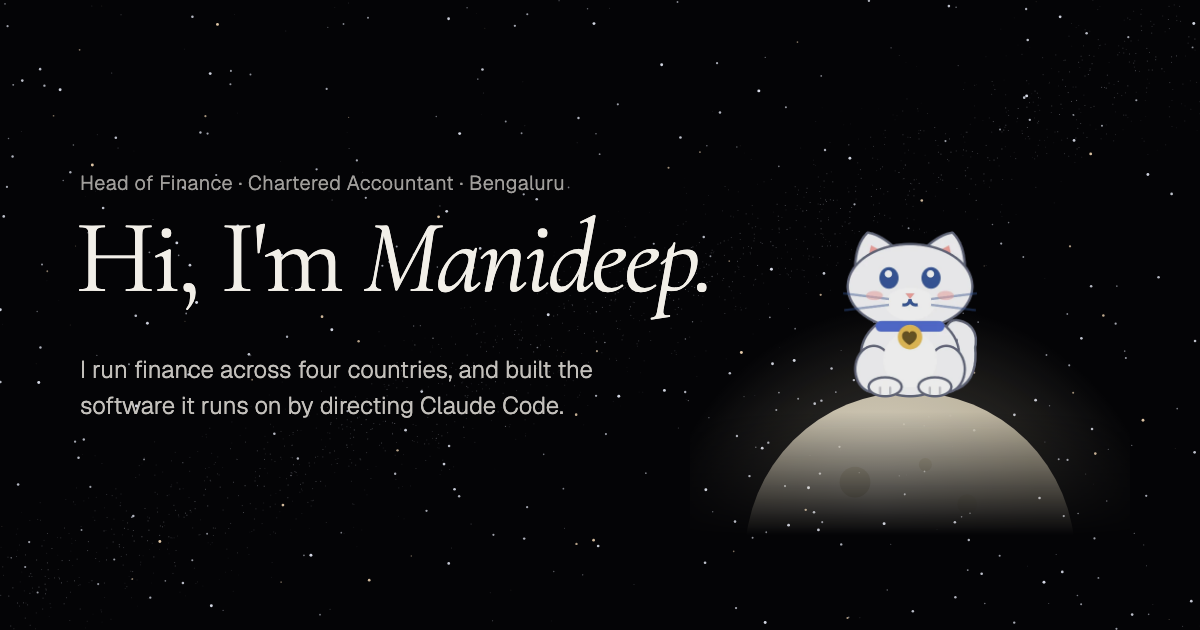
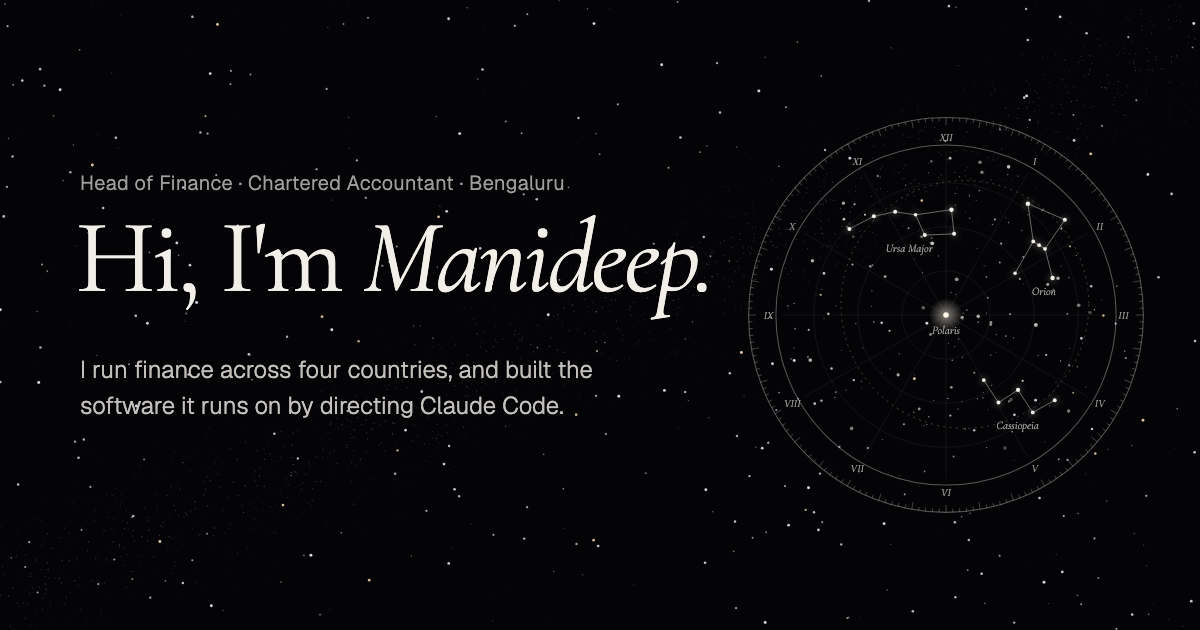
feat(site): a star chart on the first screen instead of the cat
A page from an old celestial atlas, drawn in the site's ink: a fixed rim with
degree ticks and Roman hours, and inside it the sky (grid, dotted ecliptic,
Ursa Major, Cassiopeia, Orion, Polaris at the pole) turning once every five
minutes; still for reduced motion. Cats stay only in Off hours, as the eight
napping coats. Share image updated to match.

diff --git a/index.html b/index.html
@@ -53,12 +53,21 @@
   .intro .lede { margin-top: 28px; font-size: clamp(18px, 1.55vw, 21px); line-height: 1.55; color: rgba(242,239,232,.82); max-width: 40ch; text-wrap: pretty }
   .intro .lede b { font-weight: 400; color: var(--ink) }
   .pills { display: flex; flex-wrap: wrap; gap: 10px; margin-top: 34px }
-  /* Snow on the moon: the moon glows, the cat sits still until you pet him */
-  .perch { position: relative; width: clamp(280px, 30vw, 430px); aspect-ratio: 1; -webkit-mask-image: linear-gradient(#000 72%, transparent); mask-image: linear-gradient(#000 72%, transparent) }
-  .perch .moon { position: absolute; inset: 0; width: 100%; height: 100%; overflow: visible; filter: brightness(.86) }
-  .moonglow { animation: glow 6s ease-in-out infinite }
-  @keyframes glow { 50% { opacity: .7 } }
-  .perch .cat { position: absolute; left: 50%; bottom: 21%; width: 40%; transform: translateX(-50%) }
+  /* a page from an old celestial atlas: the rim stays, the sky inside turns once every five minutes */
+  .atlas { margin: 0; width: clamp(300px, 32vw, 460px); aspect-ratio: 1 }
+  .chart { width: 100%; height: 100%; display: block; overflow: visible }
+  .chart .ring { fill: none; stroke: rgba(242,239,232,.35); stroke-width: 1 }
+  .chart .tick { stroke: rgba(242,239,232,.32); stroke-width: .8 }
+  .chart .hour { fill: rgba(242,239,232,.6); font-family: var(--serif); font-style: italic; font-size: 10.5px }
+  .chart .grid { fill: none; stroke: rgba(242,239,232,.08); stroke-width: .8 }
+  .chart .ecliptic { fill: none; stroke: rgba(255,233,201,.3); stroke-width: .8; stroke-dasharray: 2 4 }
+  .chart .field { fill: var(--ink) }
+  .chart .line { fill: none; stroke: rgba(242,239,232,.45); stroke-width: .9 }
+  .chart .star { fill: var(--ink); filter: drop-shadow(0 0 3px rgba(255,246,230,.7)) }
+  .chart .name { fill: rgba(242,239,232,.62); font-family: var(--serif); font-style: italic; font-size: 11px }
+  .chart .glow { fill: url(#chartglow) } .chart .pole { fill: #fff6e6 }
+  .chart .sky { transform-origin: 200px 200px; animation: turn 300s linear infinite }
+  @keyframes turn { to { transform: rotate(360deg) } }
 
   main { position: relative; z-index: 2 }
 
@@ -111,15 +120,9 @@
   .art .packet { fill: #ffe9c9; filter: drop-shadow(0 0 3px rgba(255,233,201,.9)) }
   #changes { aspect-ratio: 520 / 300 }
 
-  /* the cat on the moon: Cataholic's own Snow. Pet him and he says something, naps, and wakes up in the next coat */
+  /* off hours: Cataholic's eight coats, napping */
   .naps { display: grid; grid-template-columns: repeat(4, minmax(0, 1fr)); gap: 6px 10px; max-width: 480px; margin: 0 auto }
   .naps img { width: 100%; height: auto; aspect-ratio: 368 / 200; object-fit: cover; object-position: 50% 71%; filter: brightness(.88) }
-  .cat { display: block; margin: 0; padding: 0; background: none; border: 0; cursor: pointer; position: relative; color: inherit; font: inherit }
-  .cat img { width: 100%; height: auto; display: block; filter: brightness(.88) }
-  .cat .say { position: absolute; left: 70%; top: 2%; white-space: nowrap; font-family: var(--serif); font-style: italic; font-size: 22px; color: var(--ink); opacity: 0; pointer-events: none }
-  .cat.purr .say { animation: say 1.4s ease-out }
-  @keyframes say { 0% { opacity: 0; transform: translateY(6px) } 20% { opacity: 1 } 100% { opacity: 0; transform: translateY(-26px) } }
-  .cat:focus-visible { outline-offset: 8px; border-radius: 12px }
 
   /* ── the path: ten years as a rising line of stars ── */
   .arc .path { position: relative; height: 480px; margin-top: 32px }
@@ -150,12 +153,11 @@
 
   @media (prefers-reduced-motion: reduce) {
     .art .ln, .art .st, .art .ha, .art .tx, .art .flow, .path svg path, .path li { transition: none }
-    .cat.purr .say { animation: none }
-    .moonglow { animation: none }
+    .chart .sky { animation: none }
   }
   @media (max-width: 820px) {
     .intro { grid-template-columns: minmax(0, 1fr); gap: 0; padding: 88px 20px 56px }
-    .perch { order: -1; width: 170px; margin: 0 0 6px -12px }
+    .atlas { order: -1; width: 190px; margin: 0 0 18px -6px }
       .intro h1 { margin-top: 12px }
     .intro .lede { margin-top: 20px }
     .sec { padding: 88px 20px }
@@ -196,21 +198,7 @@
         <a class="pill" href="https://cal.com/manideepgns/intro-chat">Book 20 minutes ↗</a>
       </div>
     </div>
-    <div class="perch">
-      <svg class="moon" viewBox="0 0 400 400" aria-hidden="true">
-        <defs>
-          <radialGradient id="moonfill" cx=".4" cy=".35"><stop offset="0" stop-color="#fdf6e4"/><stop offset="1" stop-color="#d9cfb6"/></radialGradient>
-          <radialGradient id="moonhalo"><stop offset=".6" stop-color="#fff3d6" stop-opacity=".16"/><stop offset="1" stop-color="#fff3d6" stop-opacity="0"/></radialGradient>
-        </defs>
-        <circle class="moonglow" cx="200" cy="420" r="230" fill="url(#moonhalo)"/>
-        <circle cx="200" cy="420" r="150" fill="url(#moonfill)"/>
-        <circle cx="150" cy="352" r="14" fill="#e3d9bf"/><circle cx="252" cy="372" r="9" fill="#e3d9bf"/><circle cx="214" cy="336" r="6" fill="#e3d9bf"/>
-      </svg>
-      <button class="cat" type="button" aria-label="Pet the cat">
-        <img src="assets/cats/snow-sit.webp" width="368" height="496" alt="Snow, one of Cataholic's eight cats, sitting on the moon">
-        <span class="say" aria-hidden="true">mrrp</span>
-      </button>
-    </div>
+    <figure class="atlas"><svg class="chart" viewBox="0 0 400 400" aria-hidden="true"><defs><radialGradient id="chartglow"><stop offset="0" stop-color="#fff6e6" stop-opacity=".5"/><stop offset="1" stop-color="#fff6e6" stop-opacity="0"/></radialGradient><clipPath id="chartdisc"><circle cx="200" cy="200" r="162"/></clipPath></defs><circle cx="200" cy="200" r="188" class="ring"/><circle cx="200" cy="200" r="162" class="ring"/><path class="tick" d="M381 200L388 200M384.4 206.4L387.9 206.6M384.1 212.9L387.5 213.1M383.5 219.3L387 219.7M382.7 225.7L386.2 226.2M378.3 231.4L385.1 232.6M380.5 238.4L383.9 239.1M379 244.6L382.4 245.5M377.4 250.9L380.7 251.8M375.5 257L378.8 258.1M370.1 261.9L376.7 264.3M371.1 269.1L374.3 270.4M368.5 275L371.7 276.5M365.8 280.9L369 282.4M362.9 286.6L366 288.3M356.8 290.5L362.8 294M356.5 297.8L359.4 299.6M353 303.2L355.9 305.1M349.3 308.4L352.1 310.5M345.4 313.6L348.1 315.7M338.7 316.3L344 320.8M337.1 323.5L339.7 325.8M332.7 328.2L335.2 330.6M328.2 332.7L330.6 335.2M323.5 337.1L325.8 339.7M316.3 338.7L320.8 344M313.6 345.4L315.7 348.1M308.4 349.3L310.5 352.1M303.2 353L305.1 355.9M297.8 356.5L299.6 359.4M290.5 356.8L294 362.8M286.6 362.9L288.3 366M280.9 365.8L282.4 369M275 368.5L276.5 371.7M269.1 371.1L270.4 374.3M261.9 370.1L264.3 376.7M257 375.5L258.1 378.8M250.9 377.4L251.8 380.7M244.6 379L245.5 382.4M238.4 380.5L239.1 383.9M231.4 378.3L232.6 385.1M225.7 382.7L226.2 386.2M219.3 383.5L219.7 387M212.9 384.1L213.1 387.5M206.4 384.4L206.6 387.9M200 381L200 388M193.6 384.4L193.4 387.9M187.1 384.1L186.9 387.5M180.7 383.5L180.3 387M174.3 382.7L173.8 386.2M168.6 378.3L167.4 385.1M161.6 380.5L160.9 383.9M155.4 379L154.5 382.4M149.1 377.4L148.2 380.7M143 375.5L141.9 378.8M138.1 370.1L135.7 376.7M130.9 371.1L129.6 374.3M125 368.5L123.5 371.7M119.1 365.8L117.6 369M113.4 362.9L111.7 366M109.5 356.8L106 362.8M102.2 356.5L100.4 359.4M96.8 353L94.9 355.9M91.6 349.3L89.5 352.1M86.4 345.4L84.3 348.1M83.7 338.7L79.2 344M76.5 337.1L74.2 339.7M71.8 332.7L69.4 335.2M67.3 328.2L64.8 330.6M62.9 323.5L60.3 325.8M61.3 316.3L56 320.8M54.6 313.6L51.9 315.7M50.7 308.4L47.9 310.5M47 303.2L44.1 305.1M43.5 297.8L40.6 299.6M43.2 290.5L37.2 294M37.1 286.6L34 288.3M34.2 280.9L31 282.4M31.5 275L28.3 276.5M28.9 269.1L25.7 270.4M29.9 261.9L23.3 264.3M24.5 257L21.2 258.1M22.6 250.9L19.3 251.8M21 244.6L17.6 245.5M19.5 238.4L16.1 239.1M21.7 231.4L14.9 232.6M17.3 225.7L13.8 226.2M16.5 219.3L13 219.7M15.9 212.9L12.5 213.1M15.6 206.4L12.1 206.6M19 200L12 200M15.6 193.6L12.1 193.4M15.9 187.1L12.5 186.9M16.5 180.7L13 180.3M17.3 174.3L13.8 173.8M21.7 168.6L14.9 167.4M19.5 161.6L16.1 160.9M21 155.4L17.6 154.5M22.6 149.1L19.3 148.2M24.5 143L21.2 141.9M29.9 138.1L23.3 135.7M28.9 130.9L25.7 129.6M31.5 125L28.3 123.5M34.2 119.1L31 117.6M37.1 113.4L34 111.7M43.2 109.5L37.2 106M43.5 102.2L40.6 100.4M47 96.8L44.1 94.9M50.7 91.6L47.9 89.5M54.6 86.4L51.9 84.3M61.3 83.7L56 79.2M62.9 76.5L60.3 74.2M67.3 71.8L64.8 69.4M71.8 67.3L69.4 64.8M76.5 62.9L74.2 60.3M83.7 61.3L79.2 56M86.4 54.6L84.3 51.9M91.6 50.7L89.5 47.9M96.8 47L94.9 44.1M102.2 43.5L100.4 40.6M109.5 43.2L106 37.2M113.4 37.1L111.7 34M119.1 34.2L117.6 31M125 31.5L123.5 28.3M130.9 28.9L129.6 25.7M138.1 29.9L135.7 23.3M143 24.5L141.9 21.2M149.1 22.6L148.2 19.3M155.4 21L154.5 17.6M161.6 19.5L160.9 16.1M168.6 21.7L167.4 14.9M174.3 17.3L173.8 13.8M180.7 16.5L180.3 13M187.1 15.9L186.9 12.5M193.6 15.6L193.4 12.1M200 19L200 12M206.4 15.6L206.6 12.1M212.9 15.9L213.1 12.5M219.3 16.5L219.7 13M225.7 17.3L226.2 13.8M231.4 21.7L232.6 14.9M238.4 19.5L239.1 16.1M244.6 21L245.5 17.6M250.9 22.6L251.8 19.3M257 24.5L258.1 21.2M261.9 29.9L264.3 23.3M269.1 28.9L270.4 25.7M275 31.5L276.5 28.3M280.9 34.2L282.4 31M286.6 37.1L288.3 34M290.5 43.2L294 37.2M297.8 43.5L299.6 40.6M303.2 47L305.1 44.1M308.4 50.7L310.5 47.9M313.6 54.6L315.7 51.9M316.3 61.3L320.8 56M323.5 62.9L325.8 60.3M328.2 67.3L330.6 64.8M332.7 71.8L335.2 69.4M337.1 76.5L339.7 74.2M338.7 83.7L344 79.2M345.4 86.4L348.1 84.3M349.3 91.6L352.1 89.5M353 96.8L355.9 94.9M356.5 102.2L359.4 100.4M356.8 109.5L362.8 106M362.9 113.4L366 111.7M365.8 119.1L369 117.6M368.5 125L371.7 123.5M371.1 130.9L374.3 129.6M370.1 138.1L376.7 135.7M375.5 143L378.8 141.9M377.4 149.1L380.7 148.2M379 155.4L382.4 154.5M380.5 161.6L383.9 160.9M378.3 168.6L385.1 167.4M382.7 174.3L386.2 173.8M383.5 180.7L387 180.3M384.1 187.1L387.5 186.9M384.4 193.6L387.9 193.4"/><text class="hour" x="200" y="34.5" text-anchor="middle">XII</text><text class="hour" x="284.5" y="57.1" text-anchor="middle">I</text><text class="hour" x="346.4" y="119" text-anchor="middle">II</text><text class="hour" x="369" y="203.5" text-anchor="middle">III</text><text class="hour" x="346.4" y="288" text-anchor="middle">IV</text><text class="hour" x="284.5" y="349.9" text-anchor="middle">V</text><text class="hour" x="200" y="372.5" text-anchor="middle">VI</text><text class="hour" x="115.5" y="349.9" text-anchor="middle">VII</text><text class="hour" x="53.6" y="288" text-anchor="middle">VIII</text><text class="hour" x="31" y="203.5" text-anchor="middle">IX</text><text class="hour" x="53.6" y="119" text-anchor="middle">X</text><text class="hour" x="115.5" y="57.1" text-anchor="middle">XI</text><g clip-path="url(#chartdisc)"><g class="sky"><circle cx="200" cy="200" r="42" class="grid"/><circle cx="200" cy="200" r="84" class="grid"/><circle cx="200" cy="200" r="126" class="grid"/><path class="grid" d="M200 200L356 200M200 200L335.1 278M200 200L278 335.1M200 200L200 356M200 200L122 335.1M200 200L64.9 278M200 200L44 200M200 200L64.9 122M200 200L122 64.9M200 200L200 44M200 200L278 64.9M200 200L335.1 122"/><circle cx="218" cy="190" r="118" class="ecliptic"/><circle cx="185.3" cy="218.4" r="1.5" class="field" opacity="0.5"/><circle cx="202.4" cy="226.9" r="0.5" class="field" opacity="0.5"/><circle cx="240" cy="290.2" r="0.5" class="field" opacity="0.4"/><circle cx="259.6" cy="58.9" r="1.7" class="field" opacity="0.8"/><circle cx="247.4" cy="235.6" r="0.5" class="field" opacity="0.3"/><circle cx="208.7" cy="64.3" r="0.5" class="field" opacity="0.4"/><circle cx="55.3" cy="188.9" r="0.6" class="field" opacity="0.7"/><circle cx="205.9" cy="243.2" r="0.7" class="field" opacity="0.6"/><circle cx="186.9" cy="131.7" r="1.8" class="field" opacity="0.8"/><circle cx="304.8" cy="264" r="0.5" class="field" opacity="0.4"/><circle cx="135" cy="67.6" r="1.1" class="field" opacity="0.5"/><circle cx="306.7" cy="165" r="1.6" class="field" opacity="0.7"/><circle cx="326.4" cy="190.8" r="1.7" class="field" opacity="0.5"/><circle cx="68.5" cy="239.9" r="1.1" class="field" opacity="0.4"/><circle cx="72.8" cy="148.4" r="1.7" class="field" opacity="0.7"/><circle cx="82.3" cy="121.9" r="0.5" class="field" opacity="0.3"/><circle cx="291.5" cy="100.7" r="0.7" class="field" opacity="0.5"/><circle cx="104.7" cy="271.4" r="0.5" class="field" opacity="0.6"/><circle cx="81.9" cy="175.6" r="0.5" class="field" opacity="0.4"/><circle cx="139.7" cy="318.5" r="0.5" class="field" opacity="0.5"/><circle cx="309.1" cy="243.7" r="0.5" class="field" opacity="0.8"/><circle cx="111.7" cy="125.5" r="1.1" class="field" opacity="0.4"/><circle cx="137.3" cy="68.6" r="0.5" class="field" opacity="0.6"/><circle cx="120.8" cy="231.2" r="0.6" class="field" opacity="0.5"/><circle cx="341.4" cy="195" r="0.7" class="field" opacity="0.7"/><circle cx="102.3" cy="93.5" r="1.5" class="field" opacity="0.7"/><circle cx="122.8" cy="104.5" r="1" class="field" opacity="0.8"/><circle cx="317.7" cy="231.9" r="0.6" class="field" opacity="0.3"/><circle cx="119.4" cy="263" r="0.5" class="field" opacity="0.7"/><circle cx="229.7" cy="136.4" r="0.5" class="field" opacity="0.6"/><circle cx="218.3" cy="308.5" r="0.8" class="field" opacity="0.4"/><circle cx="183.3" cy="64.6" r="0.5" class="field" opacity="0.5"/><circle cx="222.2" cy="86.5" r="0.6" class="field" opacity="0.7"/><circle cx="258.9" cy="226" r="0.5" class="field" opacity="0.3"/><circle cx="52.5" cy="241.9" r="0.6" class="field" opacity="0.7"/><circle cx="69.2" cy="214.2" r="1" class="field" opacity="0.7"/><circle cx="273" cy="262.7" r="1.1" class="field" opacity="0.8"/><circle cx="154.4" cy="257" r="1.5" class="field" opacity="0.7"/><circle cx="174.5" cy="289.5" r="1.3" class="field" opacity="0.6"/><circle cx="238.5" cy="163.8" r="0.8" class="field" opacity="0.6"/><circle cx="70.7" cy="242.9" r="1.8" class="field" opacity="0.7"/><circle cx="270.3" cy="165.6" r="1" class="field" opacity="0.6"/><circle cx="181.7" cy="304.2" r="0.5" class="field" opacity="0.7"/><circle cx="55.2" cy="231.2" r="0.6" class="field" opacity="0.4"/><circle cx="261.1" cy="199.2" r="0.8" class="field" opacity="0.8"/><circle cx="138.7" cy="254.9" r="0.5" class="field" opacity="0.3"/><circle cx="325" cy="249.3" r="0.6" class="field" opacity="0.7"/><circle cx="146.7" cy="251.1" r="0.5" class="field" opacity="0.5"/><circle cx="317.1" cy="164.4" r="0.8" class="field" opacity="0.4"/><circle cx="87.9" cy="198.9" r="1.3" class="field" opacity="0.7"/><circle cx="265.1" cy="338.6" r="0.5" class="field" opacity="0.3"/><circle cx="184.8" cy="130.8" r="0.5" class="field" opacity="0.5"/><circle cx="238.7" cy="198.1" r="0.5" class="field" opacity="0.7"/><circle cx="348.5" cy="185.4" r="0.5" class="field" opacity="0.3"/><circle cx="264.3" cy="221.7" r="0.5" class="field" opacity="0.7"/><circle cx="186.1" cy="53.6" r="1.2" class="field" opacity="0.4"/><circle cx="239.8" cy="183.5" r="0.8" class="field" opacity="0.6"/><circle cx="256.8" cy="107.4" r="0.6" class="field" opacity="0.3"/><circle cx="49.3" cy="191.4" r="1" class="field" opacity="0.3"/><circle cx="129.9" cy="152.5" r="0.9" class="field" opacity="0.5"/><circle cx="235.2" cy="278.9" r="0.6" class="field" opacity="0.7"/><circle cx="333.2" cy="268.5" r="0.5" class="field" opacity="0.5"/><circle cx="238.7" cy="326.3" r="0.6" class="field" opacity="0.6"/><circle cx="316.8" cy="291.4" r="1.6" class="field" opacity="0.5"/><circle cx="246.6" cy="109.1" r="1" class="field" opacity="0.7"/><circle cx="243.6" cy="267" r="0.5" class="field" opacity="0.7"/><circle cx="211.4" cy="289.6" r="0.5" class="field" opacity="0.8"/><circle cx="309.6" cy="153.3" r="0.5" class="field" opacity="0.5"/><circle cx="215.5" cy="282.6" r="0.7" class="field" opacity="0.3"/><circle cx="292.4" cy="99.3" r="0.5" class="field" opacity="0.7"/><circle cx="205.1" cy="268.9" r="1.3" class="field" opacity="0.6"/><circle cx="337.3" cy="197.7" r="1.6" class="field" opacity="0.3"/><circle cx="114.2" cy="208.2" r="0.5" class="field" opacity="0.7"/><circle cx="242.8" cy="207" r="1.3" class="field" opacity="0.6"/><circle cx="142" cy="163.4" r="1.3" class="field" opacity="0.7"/><circle cx="110.1" cy="308" r="1.7" class="field" opacity="0.5"/><circle cx="222.5" cy="107.9" r="0.7" class="field" opacity="0.5"/><circle cx="232.4" cy="54.5" r="1.7" class="field" opacity="0.5"/><circle cx="169.4" cy="292.7" r="0.7" class="field" opacity="0.5"/><circle cx="258.8" cy="66.3" r="0.7" class="field" opacity="0.5"/><circle cx="128.9" cy="191.7" r="0.5" class="field" opacity="0.5"/><circle cx="192.8" cy="143.7" r="0.5" class="field" opacity="0.6"/><circle cx="105.8" cy="116" r="0.9" class="field" opacity="0.4"/><circle cx="155.4" cy="236.9" r="0.5" class="field" opacity="0.7"/><circle cx="83.8" cy="203.2" r="0.5" class="field" opacity="0.4"/><circle cx="209.3" cy="180.5" r="0.6" class="field" opacity="0.5"/><circle cx="209" cy="95.2" r="0.5" class="field" opacity="0.6"/><circle cx="242.6" cy="209.1" r="1.3" class="field" opacity="0.6"/><circle cx="309.9" cy="117.7" r="1" class="field" opacity="0.7"/><circle cx="324" cy="143.3" r="0.5" class="field" opacity="0.8"/><circle cx="119.7" cy="269.8" r="0.5" class="field" opacity="0.3"/><circle cx="302.3" cy="175.9" r="1.1" class="field" opacity="0.3"/><circle cx="170.1" cy="257" r="0.5" class="field" opacity="0.4"/><circle cx="256.2" cy="326.7" r="1.7" class="field" opacity="0.3"/><circle cx="201.7" cy="279.5" r="0.7" class="field" opacity="0.6"/><circle cx="215.9" cy="204.6" r="0.7" class="field" opacity="0.3"/><circle cx="102.8" cy="108.8" r="1.3" class="field" opacity="0.8"/><circle cx="188.3" cy="281.5" r="0.5" class="field" opacity="0.5"/><circle cx="204.7" cy="178.5" r="0.8" class="field" opacity="0.3"/><circle cx="261.9" cy="306" r="0.5" class="field" opacity="0.5"/><circle cx="273.7" cy="170.8" r="0.5" class="field" opacity="0.3"/><circle cx="203.9" cy="50.7" r="1.4" class="field" opacity="0.7"/><circle cx="263" cy="311.1" r="0.8" class="field" opacity="0.5"/><circle cx="230.7" cy="201.3" r="1.7" class="field" opacity="0.7"/><circle cx="125.5" cy="326.7" r="1" class="field" opacity="0.7"/><circle cx="296.9" cy="170.9" r="1.4" class="field" opacity="0.7"/><circle cx="260" cy="282.3" r="1.1" class="field" opacity="0.5"/><circle cx="268.6" cy="67.7" r="0.6" class="field" opacity="0.5"/><circle cx="242.7" cy="238.2" r="0.5" class="field" opacity="0.8"/><circle cx="251.2" cy="150" r="0.9" class="field" opacity="0.6"/><circle cx="210.2" cy="166" r="1.8" class="field" opacity="0.6"/><circle cx="262" cy="280.6" r="1.7" class="field" opacity="0.3"/><circle cx="235.5" cy="273.5" r="0.5" class="field" opacity="0.5"/><circle cx="161.7" cy="76.3" r="0.5" class="field" opacity="0.7"/><circle cx="215.4" cy="202.4" r="1.7" class="field" opacity="0.6"/><circle cx="230" cy="279.8" r="0.5" class="field" opacity="0.8"/><circle cx="95.3" cy="191.3" r="0.5" class="field" opacity="0.5"/><circle cx="234.2" cy="64" r="1.6" class="field" opacity="0.5"/><circle cx="208.2" cy="230.1" r="0.6" class="field" opacity="0.4"/><circle cx="247.8" cy="218.7" r="0.5" class="field" opacity="0.6"/><circle cx="94.2" cy="278.4" r="0.6" class="field" opacity="0.7"/><circle cx="178.3" cy="193.1" r="1.7" class="field" opacity="0.4"/><circle cx="207.2" cy="334.7" r="1" class="field" opacity="0.5"/><circle cx="231.9" cy="81.4" r="0.8" class="field" opacity="0.5"/><circle cx="208.7" cy="84.3" r="0.6" class="field" opacity="0.6"/><circle cx="186.3" cy="126.7" r="0.8" class="field" opacity="0.5"/><circle cx="285.6" cy="209.5" r="1.8" class="field" opacity="0.8"/><circle cx="272.2" cy="119.4" r="0.5" class="field" opacity="0.7"/><circle cx="287.6" cy="238.5" r="0.6" class="field" opacity="0.4"/><circle cx="257" cy="220" r="0.8" class="field" opacity="0.6"/><circle cx="278" cy="104.5" r="0.5" class="field" opacity="0.8"/><circle cx="129.4" cy="177" r="0.8" class="field" opacity="0.3"/><circle cx="212.8" cy="68.3" r="0.5" class="field" opacity="0.6"/><circle cx="215.6" cy="240.4" r="0.6" class="field" opacity="0.5"/><circle cx="110.9" cy="151.9" r="1" class="field" opacity="0.7"/><circle cx="295.2" cy="238.1" r="1.1" class="field" opacity="0.4"/><circle cx="176.7" cy="125.5" r="1.2" class="field" opacity="0.5"/><circle cx="146.2" cy="215" r="1" class="field" opacity="0.8"/><circle cx="177.7" cy="159.7" r="0.5" class="field" opacity="0.7"/><circle cx="219.8" cy="195.3" r="0.9" class="field" opacity="0.4"/><path class="line" d="M108 118L131.3 106M131.3 106L151.6 101.7M151.6 101.7L171 104.6M171 104.6L179.8 123.9M179.8 123.9L207.7 122.7M207.7 122.7L205.2 99.7M205.2 99.7L171 104.6"/><circle cx="108" cy="118" r="1.9" class="star"/><circle cx="131.3" cy="106" r="1.9" class="star"/><circle cx="151.6" cy="101.7" r="1.9" class="star"/><circle cx="171" cy="104.6" r="1.7" class="star"/><circle cx="179.8" cy="123.9" r="1.9" class="star"/><circle cx="207.7" cy="122.7" r="1.9" class="star"/><circle cx="205.2" cy="99.7" r="2.1" class="star"/><text class="name" x="164.9" y="139.9" text-anchor="middle">Ursa Major</text><path class="line" d="M236 262L250 283.4M250 283.4L268.6 271.4M268.6 271.4L282.6 292.8M282.6 292.8L303.6 281.2"/><circle cx="236" cy="262" r="1.8" class="star"/><circle cx="250" cy="283.4" r="1.9" class="star"/><circle cx="268.6" cy="271.4" r="2" class="star"/><circle cx="282.6" cy="292.8" r="1.8" class="star"/><circle cx="303.6" cy="281.2" r="1.8" class="star"/><text class="name" x="268.1" y="308.8" text-anchor="middle">Cassiopeia</text><path class="line" d="M278 94L313.2 109.3M278 94L283.1 129.9M313.2 109.3L294.3 137M283.1 129.9L288.7 133.5M288.7 133.5L294.3 137M283.1 129.9L265.8 160.2M294.3 137L301.5 164.8"/><circle cx="278" cy="94" r="2.1" class="star"/><circle cx="313.2" cy="109.3" r="1.9" class="star"/><circle cx="283.1" cy="129.9" r="1.8" class="star"/><circle cx="288.7" cy="133.5" r="1.8" class="star"/><circle cx="294.3" cy="137" r="1.8" class="star"/><circle cx="265.8" cy="160.2" r="1.7" class="star"/><circle cx="301.5" cy="164.8" r="2.1" class="star"/><text class="name" x="293.2" y="180.8" text-anchor="middle">Orion</text><circle cx="200" cy="200" r="16" class="glow"/><circle cx="200" cy="200" r="2.6" class="pole"/><text class="name" x="200" y="218" text-anchor="middle">Polaris</text></g></g></svg></figure>
   </div>
 </section>
 
@@ -412,21 +400,6 @@ document.querySelectorAll('a[href^="mailto:"]').forEach(a => {
     navigator.clipboard ? navigator.clipboard.writeText(email).then(done, () => { legacy(); done() }) : (legacy(), done())
   })
 })
-
-// the cat on the moon: still until petted; a pet gets a word out of him, sends him to sleep, and he wakes up
-// in the next of Cataholic's eight coats
-const cat = document.querySelector('.cat'), catImg = cat.querySelector('img'), say = cat.querySelector('.say')
-const LINES = ['mrrp', 'hi!', 'pet me', 'mew?', 'prrr']
-const COATS = ['snow', 'smokey', 'tux', 'patches', 'butter', 'ginger', 'cocoa', 'lilac'], coatSrc = (c, pose) => `assets/cats/${c}-${pose}.webp`
-let coat = 0, napping = false
-cat.addEventListener('pointerenter', () => COATS.forEach(c => { new Image().src = coatSrc(c, 'sit'); new Image().src = coatSrc(c, 'nap') }), { once: true })
-cat.addEventListener('click', () => {
-  if (napping) return
-  napping = true; catImg.src = coatSrc(COATS[coat], 'nap'); say.textContent = LINES[Math.floor(Math.random() * LINES.length)]
-  cat.classList.remove('purr'); void cat.offsetWidth; cat.classList.add('purr')
-  setTimeout(() => { coat = (coat + 1) % COATS.length; catImg.src = coatSrc(COATS[coat], 'sit'); napping = false }, 1600)
-})
-cat.addEventListener('animationend', e => { if (e.animationName === 'say') cat.classList.remove('purr') })
 
 drawDust(); drawArt()
 let lastW = innerWidth, rt
